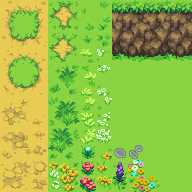
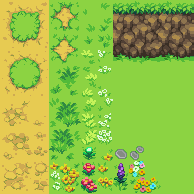
Tileset margin support

diff --git a/src/assets/spritesheet.cpp b/src/assets/spritesheet.cpp
@@ -205,43 +205,49 @@ ParsePyxelEditTile (const json& j)
 void
 ProcessSpriteSheet (const json& j, SpriteSheet& sheet)
 {
-    sheet.region_count = (j.count("regions") > 0) ? j["regions"].size() : 0;
-    if (sheet.region_count > 0)
+    CHECK_REQ(j, regions, is_array);
+    CHECK_OPT(j, animations, is_array);
+    CHECK_OPT(j, margin, is_number_unsigned);
+
+    uint32 margin = (j.count("margin") > 0) ? j["margin"].get<uint32>() : 0;
+
+    sheet.region_count = j["regions"].size();
+    RDGE_CALLOC(sheet.regions, sheet.region_count, nullptr);
+
+    auto surface_size = sheet.surface.Size();
+    const auto& j_regions = j["regions"];
+    for (size_t i = 0; i < sheet.region_count; i++)
     {
-        RDGE_CALLOC(sheet.regions, sheet.region_count, nullptr);
+        auto parsed = ParseRegion(j_regions[i]);
 
-        auto surface_size = sheet.surface.Size();
-        const auto& j_regions = j["regions"];
-        for (size_t i = 0; i < sheet.region_count; i++)
+        // Validate values are within range
+        if ((parsed.x + parsed.width > surface_size.w) ||
+            (parsed.y + parsed.height > surface_size.h))
         {
-            auto parsed = ParseRegion(j_regions[i]);
-
-            // Validate values are within range
-            if ((parsed.x + parsed.width > surface_size.w) ||
-                (parsed.y + parsed.height > surface_size.h))
-            {
-                std::string msg("region \"" + parsed.name + "\" outside valid range");
-                throw std::invalid_argument(msg);
-            }
-
-            auto& region = sheet.regions[i];
-            region.name = parsed.name;
-            region.value.clip = { static_cast<int32>(parsed.x),
-                                  static_cast<int32>(parsed.y),
-                                  static_cast<int32>(parsed.width),
-                                  static_cast<int32>(parsed.height) };
-            region.value.size = vec2(parsed.width, parsed.height);
-            region.value.origin = parsed.origin;
-
-            float x1 = normalize(parsed.x, surface_size.w);
-            float x2 = normalize(parsed.x + parsed.width, surface_size.w);
-            float y1 = normalize(parsed.y, surface_size.h);
-            float y2 = normalize(parsed.y + parsed.height, surface_size.h);
-            region.value.coords.bottom_left  = vec2(x1, y1);
-            region.value.coords.bottom_right = vec2(x2, y1);
-            region.value.coords.top_left     = vec2(x1, y2);
-            region.value.coords.top_right    = vec2(x2, y2);
+            std::string msg("region \"" + parsed.name + "\" outside valid range");
+            throw std::invalid_argument(msg);
         }
+
+        uint32 offset_x = margin + parsed.x;
+        uint32 offset_y = margin + parsed.y;
+
+        auto& region = sheet.regions[i];
+        region.name = parsed.name;
+        region.value.clip = { static_cast<int32>(offset_x),
+                              static_cast<int32>(offset_y),
+                              static_cast<int32>(parsed.width),
+                              static_cast<int32>(parsed.height) };
+        region.value.size = vec2(parsed.width, parsed.height);
+        region.value.origin = parsed.origin;
+
+        float x1 = normalize(offset_x, surface_size.w);
+        float x2 = normalize(offset_x + parsed.width, surface_size.w);
+        float y1 = normalize(offset_y, surface_size.h);
+        float y2 = normalize(offset_y + parsed.height, surface_size.h);
+        region.value.coords.bottom_left  = vec2(x1, y1);
+        region.value.coords.bottom_right = vec2(x2, y1);
+        region.value.coords.top_left     = vec2(x1, y2);
+        region.value.coords.top_right    = vec2(x2, y2);
     }
 
     sheet.animation_count = (j.count("animations") > 0) ? j["animations"].size() : 0;
@@ -296,19 +302,15 @@ ProcessTilemap (const json& j, SpriteSheet& sheet)
     CHECK_REQ(j, tilewidth, is_number_unsigned);
     CHECK_REQ(j, tileheight, is_number_unsigned);
     CHECK_REQ(j, layers, is_array);
+    CHECK_OPT(j, margin, is_number_unsigned);
 
     auto tileswide = j["tileswide"].get<uint32>();
     auto tileshigh = j["tileshigh"].get<uint32>();
     auto tilewidth = j["tilewidth"].get<uint32>();
     auto tileheight = j["tileheight"].get<uint32>();
+    uint32 margin = (j.count("margin") > 0) ? j["margin"].get<uint32>() : 0;
 
     auto surface_size = sheet.surface.Size();
-    if ((surface_size.w % tilewidth > 0) || (surface_size.h % tileheight > 0))
-    {
-        std::string msg("tilemap expects no surface padding");
-        throw std::invalid_argument(msg);
-    }
-
     uint32 region_rows = surface_size.h / tileheight;
     uint32 region_cols = surface_size.w / tilewidth;
     sheet.region_count = region_rows * region_cols;
@@ -330,8 +332,8 @@ ProcessTilemap (const json& j, SpriteSheet& sheet)
             ss << "tile_" << row << "_" << col;
             region.name = ss.str();
 
-            auto x = col * tilewidth;
-            auto y = row * tileheight;
+            auto x = margin + (col * tilewidth);
+            auto y = margin + (row * tileheight);
             region.value.clip = { static_cast<int32>(x),
                                   static_cast<int32>(y),
                                   static_cast<int32>(tilewidth),

diff --git a/include/rdge/assets/spritesheet.hpp b/include/rdge/assets/spritesheet.hpp
@@ -93,6 +93,7 @@ struct tilemap_data
 //! {
 //!     "image_path": "textures/image.png",
 //!     "type": "spritesheet",
+//!     "margin": 1,
 //!     "regions": [ {
 //!         "name": "region_name",
 //!         "x": 0,
@@ -120,6 +121,7 @@ struct tilemap_data
 //! {
 //!     "image_path": "textures/image.png",
 //!     "type": "tilemap",
+//!     "margin": 1,
 //!     "tileswide": 30,
 //!     "tileshigh": 30,
 //!     "tilewidth": 16,
